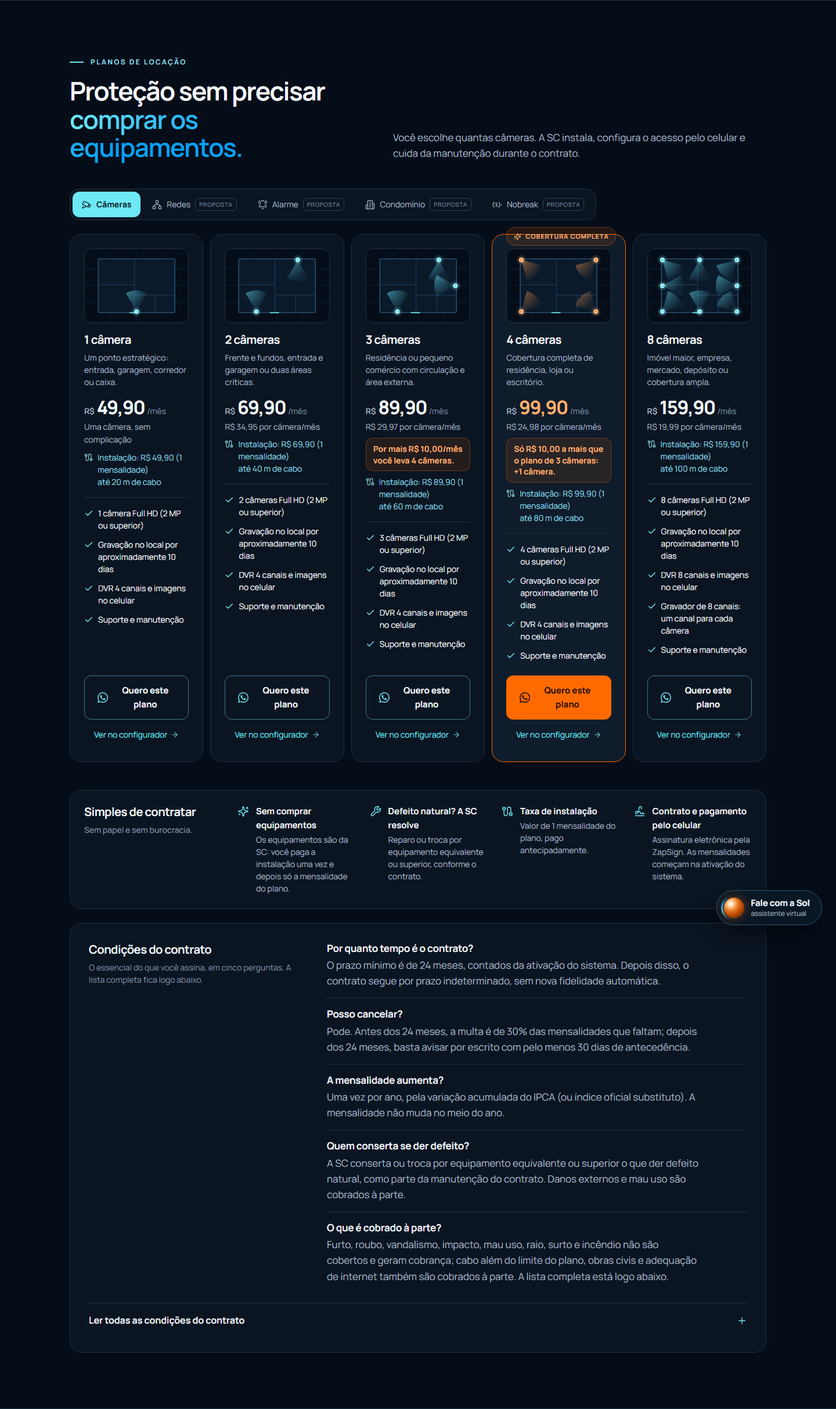
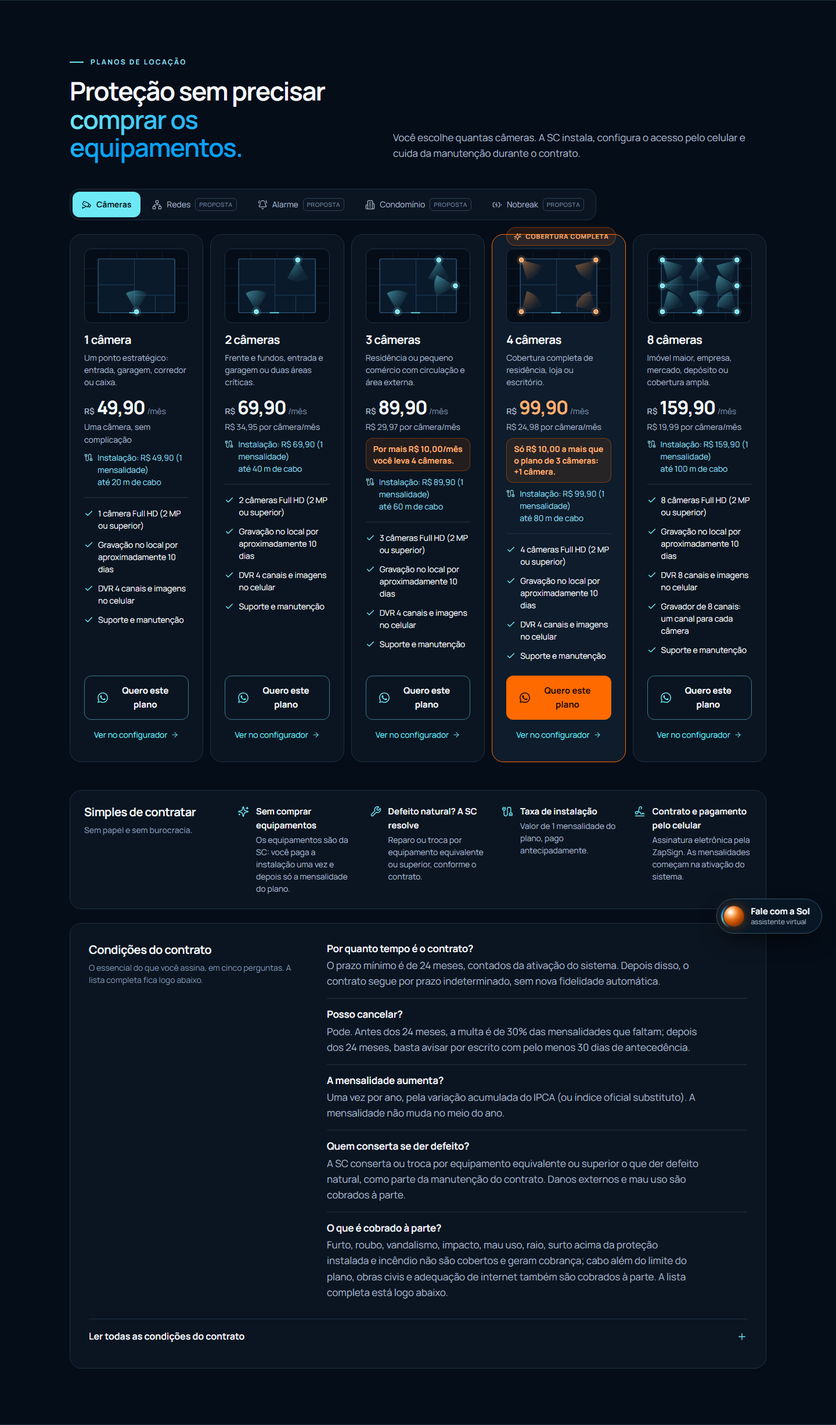
Correções da revisão: textos, foco e toque da ferramenta, conferências mais rígidas
- /comercio/ e condomínio não sugerem Wi-Fi, alarme ou nobreak incluídos no plano;
  "surto acima da proteção instalada" no resumo do contrato.
- Ferramenta: só números sobre a foto abaixo de 1100 px, foco em duas camadas,
  laterais da casa no lugar certo, estado só no aria-pressed, seção nomeada pelo título.
- Foto da loja com telefone e número do prédio desfocados.
- Validador: nada pode passar da borda a 375 px, nenhum pedido a outro domínio antes
  do clique no vídeo, ícone do WhatsApp no botão da ferramenta.
- Privacidade cita os links do Maps e do YouTube.

diff --git a/site/src/lib/dados.ts b/site/src/lib/dados.ts
@@ -178,7 +178,7 @@ export const contratoSimples: Duvida[] = [
   },
   {
     pergunta: 'O que é cobrado à parte?',
-    resposta: 'Furto, roubo, vandalismo, impacto, mau uso, raio, surto e incêndio não são cobertos e geram cobrança; cabo além do limite do plano, obras civis e adequação de internet também são cobrados à parte. A lista completa está logo abaixo.',
+    resposta: 'Furto, roubo, vandalismo, impacto, mau uso, raio, surto acima da proteção instalada e incêndio não são cobertos e geram cobrança; cabo além do limite do plano, obras civis e adequação de internet também são cobrados à parte. A lista completa está logo abaixo.',
   },
 ];
 
@@ -350,7 +350,7 @@ export const paginaCondominio = {
     },
     {
       titulo: 'Rede, Wi-Fi e nobreak',
-      texto: 'Câmeras, acesso e interfonia ligados ao quadro técnico, e Wi-Fi nas áreas comuns. O nobreak é dimensionado para a carga e mantém o sistema por um período na falta de energia, conforme a bateria.',
+      texto: 'Câmeras, acesso e interfonia ligados ao quadro técnico, e Wi-Fi nas áreas comuns. O nobreak é dimensionado para a carga e mantém o sistema por um período na falta de energia, conforme a bateria. Nobreak é adicional, incluído só se estiver na proposta.',
     },
     {
       titulo: 'Alarme integrado às câmeras, no celular',
@@ -382,8 +382,8 @@ export const paginasAmbiente = {
     curto: 'Comércio',
     tituloBusca: 'Câmeras de segurança para comércio',
     titulo: 'Caixa, estoque e entrada à vista, de onde você estiver.',
-    lead: 'Planos de locação de câmeras para a sua loja, com gravação local, imagens no celular, rede Wi-Fi e alarme.',
-    descricao: 'Câmeras para loja: caixa, salão, estoque e entrada. Planos de locação de câmeras da SC Soluções, rede Wi-Fi e alarme. Francisco Beltrão e região.',
+    lead: 'Planos de locação de câmeras para a sua loja, com gravação local e imagens no celular. Rede Wi-Fi e alarme em proposta personalizada.',
+    descricao: 'Câmeras para loja: caixa, salão, estoque e entrada. Locação da SC Soluções com gravação local e imagens no celular. Wi-Fi e alarme em proposta personalizada. Francisco Beltrão.',
     destaques: ['Planos de 1 a 8 câmeras', 'Gravação local', 'Rede Wi-Fi sob medida', 'Alarme monitorado pelo app'],
     blocos: [
       { titulo: 'Câmeras onde importa', texto: textoCameras('Fachada, caixa, salão, estoque e carga e descarga') },

diff --git a/site/src/styles/toque-camera.css b/site/src/styles/toque-camera.css
@@ -17,14 +17,15 @@
 }
 .toque-foto .toque-ponto {
   position: absolute;
-  left: clamp(22px, calc(var(--x) * 1%), calc(100% - 22px));
-  top: clamp(22px, calc(var(--y) * 1%), calc(100% - 22px));
+  left: clamp(28px, calc(var(--x) * 1%), calc(100% - 28px));
+  top: clamp(28px, calc(var(--y) * 1%), calc(100% - 28px));
   transform: translate(-22px, -50%);
 }
 .toque-foto .toque-ponto[data-lado='esquerda'] { flex-direction: row-reverse; transform: translate(calc(-100% + 22px), -50%); }
 .toque-ponto:disabled { cursor: not-allowed; }
 .toque-ponto:focus-visible { outline: none; }
-.toque-ponto:focus-visible .toque-marca::before { outline: 3px solid var(--ciano); outline-offset: 3px; }
+/* Anel de foco em duas camadas (fundo + ciano): aparece sobre qualquer parte da foto; os pontos ficam a 28 px da borda para não ser cortado */
+.toque-ponto:focus-visible .toque-marca::before { box-shadow: 0 0 0 3px var(--fundo), 0 0 0 6px var(--ciano); }
 .toque-extra:focus-visible { outline: 2px solid var(--ciano); outline-offset: 3px; border-radius: 999px; }
 
 .toque-marca { position: relative; flex: none; display: grid; place-items: center; width: 44px; height: 44px; }
@@ -96,13 +97,16 @@
   .toque-grade { grid-template-columns: 1fr; gap: 20px; }
 }
 
-/* Celular: só o número sobre a foto; os nomes vão para a lista logo abaixo */
-@media (max-width: 760px) {
-  .toque-foto { border-radius: 14px; }
+/* Abaixo de 1100 px: só o número sobre a foto; os nomes vão para a lista logo abaixo (rótulos não cobrem os pontos vizinhos) */
+@media (max-width: 1100px) {
   .toque-foto .toque-rotulo { position: absolute; width: 1px; height: 1px; padding: 0; border: 0; overflow: hidden; clip: rect(0 0 0 0); }
-  .toque-foto .toque-ponto, .toque-foto .toque-ponto[data-lado='esquerda'] { transform: translate(-50%, -50%); left: clamp(22px, calc(var(--x) * 1%), calc(100% - 22px)); }
+  .toque-foto .toque-ponto, .toque-foto .toque-ponto[data-lado='esquerda'] { transform: translate(-50%, -50%); left: clamp(28px, calc(var(--x) * 1%), calc(100% - 28px)); }
   .toque-foto .toque-num { display: inline-grid; }
   .toque-legenda { display: grid; }
+}
+
+@media (max-width: 760px) {
+  .toque-foto { border-radius: 14px; }
   .toque-resultado { padding: 20px; }
 }
 

diff --git a/site/src/lib/toque-camera.ts b/site/src/lib/toque-camera.ts
@@ -11,7 +11,7 @@ export interface PontoCamera {
   id: string;
   /** Rótulo visível, curto. */
   rotulo: string;
-  /** Complemento do rótulo acessível: "Câmera {onde}, marcada". Contém o rótulo visível. */
+  /** Complemento do rótulo acessível: "Câmera {onde}". Contém o rótulo visível. */
   onde: string;
   /**
    * Posição sobre a foto, em % da largura (x) e da altura (y). Sem posição: ponto fora da foto
@@ -42,8 +42,8 @@ export const fachadas: Record<IdFachada, FachadaToque> = {
       { id: 'porta', rotulo: 'Porta da frente', onde: 'na porta da frente', x: 61, y: 62 },
       { id: 'calcada', rotulo: 'Calçada e rua', onde: 'na calçada e rua', x: 22, y: 87 },
       { id: 'jardim', rotulo: 'Jardim da frente', onde: 'no jardim da frente', x: 80, y: 72, lado: 'esquerda' },
-      { id: 'lateral-esquerda', rotulo: 'Lateral esquerda', onde: 'na lateral esquerda', x: 6, y: 58 },
-      { id: 'lateral-direita', rotulo: 'Lateral direita', onde: 'na lateral direita', x: 95, y: 52, lado: 'esquerda' },
+      { id: 'lateral-esquerda', rotulo: 'Lateral esquerda', onde: 'na lateral esquerda', x: 17, y: 50 },
+      { id: 'lateral-direita', rotulo: 'Lateral direita', onde: 'na lateral direita', x: 86, y: 44, lado: 'esquerda' },
       { id: 'fundos', rotulo: 'Fundos e quintal', onde: 'nos fundos e quintal' },
       { id: 'dentro', rotulo: 'Dentro de casa', onde: 'dentro de casa' },
     ],
@@ -68,9 +68,9 @@ export function naFoto(p: PontoCamera): p is PontoCamera & { x: number; y: numbe
   return typeof p.x === 'number' && typeof p.y === 'number';
 }
 
-/** Rótulo acessível do botão do ponto (ex.: "Câmera na garagem, marcada"). */
-export function rotuloAcessivel(p: PontoCamera, marcado: boolean): string {
-  return `Câmera ${p.onde}, ${marcado ? 'marcada' : 'desmarcada'}`;
+/** Rótulo acessível fixo do botão do ponto (ex.: "Câmera na garagem"); o estado fica só no aria-pressed. */
+export function rotuloAcessivel(p: PontoCamera): string {
+  return `Câmera ${p.onde}`;
 }
 
 /** Pontos marcados, na ordem da lista da fachada (ids desconhecidos são ignorados). */

diff --git a/site/tests/toque-camera.test.ts b/site/tests/toque-camera.test.ts
@@ -15,7 +15,7 @@ describe('ferramenta "Toque onde quer câmera": pontos de cada fachada', () => {
       expect(p.rotulo.length).toBeGreaterThan(2);
       expect(p.rotulo.length).toBeLessThanOrEqual(28);
       // O rótulo acessível contém o rótulo visível (WCAG 2.5.3).
-      expect(rotuloAcessivel(p, true).toLowerCase()).toContain(p.rotulo.toLowerCase());
+      expect(rotuloAcessivel(p).toLowerCase()).toContain(p.rotulo.toLowerCase());
     }
     expect(f.alt.length).toBeGreaterThan(20);
   });
@@ -44,10 +44,10 @@ describe('ferramenta "Toque onde quer câmera": pontos de cada fachada', () => {
     expect(fachadas.comercio.pontos.filter(naFoto).map((p) => p.rotulo)).toEqual(['Porta de entrada', 'Vitrine', 'Calçada em frente']);
   });
 
-  it('rótulo acessível diz o lugar e se está marcado', () => {
+  it('rótulo acessível diz o lugar, sem o estado (o estado fica só no aria-pressed)', () => {
     const garagem = fachadas.casa.pontos[0]!;
-    expect(rotuloAcessivel(garagem, true)).toBe('Câmera na garagem, marcada');
-    expect(rotuloAcessivel(garagem, false)).toBe('Câmera na garagem, desmarcada');
+    expect(rotuloAcessivel(garagem)).toBe('Câmera na garagem');
+    expect(rotuloAcessivel(garagem)).not.toMatch(/marcada/);
   });
 
   it('pontos marcados saem na ordem da lista e ids desconhecidos são ignorados', () => {

diff --git a/site/src/scripts/toque-camera.ts b/site/src/scripts/toque-camera.ts
@@ -3,7 +3,7 @@
  * A conta fica em src/lib/toque-camera.ts; aqui só se liga a regra aos botões e ao resultado.
  */
 import { formatarPreco, mostrarPrecos, nomePlano, rotuloTaxa, textoTaxaInstalacao, toqueCamera } from '../lib/dados';
-import { MAX_PONTOS, fachadas, resultadoToque, rotuloAcessivel, type IdFachada } from '../lib/toque-camera';
+import { MAX_PONTOS, fachadas, resultadoToque, type IdFachada } from '../lib/toque-camera';
 
 function iniciar(raiz: HTMLElement): void {
   const fachada = fachadas[raiz.dataset.toque as IdFachada];
@@ -37,7 +37,6 @@ function iniciar(raiz: HTMLElement): void {
       if (!p) continue;
       const marcado = marcados.has(p.id);
       b.setAttribute('aria-pressed', String(marcado));
-      b.setAttribute('aria-label', rotuloAcessivel(p, marcado));
       raiz.querySelector(`[data-legenda="${p.id}"]`)?.toggleAttribute('data-marcado', marcado);
     }
 

diff --git a/docs/inovacao/RELATORIO-VALIDACAO.md b/docs/inovacao/RELATORIO-VALIDACAO.md
@@ -1,6 +1,6 @@
 # Relatório de validação do site
 
-Gerado por `npm run validar` em 12/11/2026, 09:16:47.
+Gerado por `npm run validar` em 12/11/2026, 09:31:50.
 Resultado: **201 de 201 itens ✅** — checklist completa.
 
 ## Geral
@@ -60,8 +60,8 @@ Resultado: **201 de 201 itens ✅** — checklist completa.
 | ✅ | Inicial enxuta: sem "E se…?", faixa de serviços, configurador, "Personalize" e Área do cliente; botão leva a /monte-seu-sistema/ | {"ese":false,"faixa":false,"monte":false,"cliente":false,"personalize":false,"botaoMonte":"/monte-seu-sistema/"} |
 | ✅ | "A partir de R$ 49,90/mês" visível sem rolar em 1440 px | fim do bloco em 760 de 900 px |
 | ✅ | "A partir de R$ 49,90/mês" visível sem rolar em 390 px | fim do bloco em 493 de 768 px |
-| ✅ | Abertura: carregar e rolar a inicial não faz pedido a youtube.com, youtube-nocookie.com, ytimg.com, googlevideo.com, google.com nem gstatic.com (1440 px) | 0 pedido(s) a outros servidores |
-| ✅ | Abertura: carregar e rolar a inicial não faz pedido a youtube.com, youtube-nocookie.com, ytimg.com, googlevideo.com, google.com nem gstatic.com (390 px) | 0 pedido(s) a outros servidores |
+| ✅ | Abertura: carregar e rolar a inicial não faz pedido a nenhum host diferente do próprio site, nem ao Google nem ao YouTube (1440 px) | 0 pedidos a outros hosts |
+| ✅ | Abertura: carregar e rolar a inicial não faz pedido a nenhum host diferente do próprio site, nem ao Google nem ao YouTube (390 px) | 0 pedidos a outros hosts |
 | ✅ | Abertura: tocar no play troca a cena por um iframe de www.youtube-nocookie.com/embed/wKUPPBYbi-Q (com título, autoplay e carregamento tardio), sem abrir outra aba | {"pedidosAntes":0,"pedidosDepois":["https://www.youtube-nocookie.com/embed/wKUPPBYbi-Q?autoplay=1&rel=0&pl"],"player":{"src":"https://www.youtube-nocookie.com/embed/wKUPPBYbi-Q?autoplay=1&rel=0&playsinline=1","title":"Vídeo de demonstração do fabricante: câmeras ColorVu com imagem colorida à noite","allow":"autoplay; encrypted-media; picture-in-picture","loading":"lazy","dentroDoCelular":true,"capaSumiu":true,"legenda":true,"total":1},"abas":1,"erros":[]} |
 | ✅ | Abertura sem JavaScript: o play é um link para https://www.youtube.com/watch?v=wKUPPBYbi-Q em nova aba (noopener), sem iframe e sem pedido ao Google | {"href":"https://www.youtube.com/watch?v=wKUPPBYbi-Q","alvo":"_blank","rel":"noopener","iframes":0,"texto":"Toque para ver o vídeo de demonstração do fabricante","externos":0} |
 | ✅ | Abertura: a legenda do vídeo aparece logo abaixo do celular e contém "sob orçamento" (1440 px) | 16 px abaixo do celular; "Demonstração do fabricante (Hikvision ColorVu). Imagem colorida à noit…" |
@@ -103,7 +103,7 @@ Resultado: **201 de 201 itens ✅** — checklist completa.
 | ✅ | Mensagem para a Sol leva ambiente, quantidade, pontos, plano, valor e recursos | Olá! Montei meu sistema no site da SC. / Ambiente: Casa / Câmeras: 8 (entrada principal, garagem e portão, fundos / quintal, lateral esquerda, fundos / quintal  |
 | ✅ | Condomínio vai para proposta personalizada |  |
 | ✅ | ?ambiente=condominio abre o configurador no condomínio (link da aba Condomínio) | true |
-| ✅ | Link antigo /#monte leva a /monte-seu-sistema/ | http://127.0.0.1:56208/monte-seu-sistema/ |
+| ✅ | Link antigo /#monte leva a /monte-seu-sistema/ | http://127.0.0.1:61810/monte-seu-sistema/ |
 
 ## Tela 4 · Como funciona
 
@@ -169,7 +169,7 @@ Resultado: **201 de 201 itens ✅** — checklist completa.
 | ✅ | Comércio: "reduzir movimento": nenhuma animação contínua roda | 0 animações contínuas |
 | ✅ | Comércio: nada fala de maquete, 3D nem "instalação inclusa"; menu "Soluções" leva às quatro páginas |  |
 | ✅ | Comércio: dados estruturados (schema.org) da página e título com a cidade | 1 bloco(s); Câmeras de segurança para comércio / SC Soluções, Francisco Beltrão |
-| ✅ | Comércio: página leve (peso total ≤ 300 KB, sem compactação) | 237 KB em 11 arquivos |
+| ✅ | Comércio: página leve (peso total ≤ 300 KB, sem compactação) | 235 KB em 11 arquivos |
 | ✅ | Comércio: planos de 1 a 8 câmeras, gravação de aproximadamente 10 dias, imagens no celular dependem de energia e internet, premium sob orçamento |  |
 | ✅ | Comércio: botões levam aos planos (/#planos) e ao configurador (?ambiente=comercio) | {"planos":"Ver os planos de locação","config":"Montar no configurador","whats":0} |
 | ✅ | Comércio no celular: sem rolagem lateral, toques ≥ 44 px, item "Contato" no menu e sem erros | {"sobra":0,"pequenos":[],"contatoNoMenu":true,"erros":[]} |
@@ -192,7 +192,7 @@ Resultado: **201 de 201 itens ✅** — checklist completa.
 | ✅ | Condomínio: página leve (peso total ≤ 300 KB, sem compactação) | 161 KB em 8 arquivos |
 | ✅ | Condomínio: sem preço, dias de gravação, quantidade de câmeras, prazo de contrato nem "instalação inclusa" |  |
 | ✅ | Condomínio: o botão de proposta tem o orbe da Sol, leva a #contato sem JavaScript e abre o chat da Sol | {"href":"#contato","msg":"Quero uma proposta do Condomínio Evoluído para o meu condomínio.","orbe":true,"whats":false,"config":true} |
-| ✅ | Condomínio: "Pedir proposta" abre a Sol e a página não sai do lugar | http://127.0.0.1:56208/condominio/ |
+| ✅ | Condomínio: "Pedir proposta" abre a Sol e a página não sai do lugar | http://127.0.0.1:61810/condominio/ |
 | ✅ | Condomínio no celular: sem rolagem lateral, toques ≥ 44 px, item "Contato" no menu e sem erros | {"sobra":0,"pequenos":[],"contatoNoMenu":true,"erros":[]} |
 | ✅ | Condomínio sem JavaScript: texto, blocos, contato e botões funcionam | {"h1":1,"blocos":4,"contato":true,"botoes":"#contato /monte-seu-sistema/?ambiente=condominio"} |
 | ✅ | Inicial leva às páginas de solução: aba "Condomínio" dos planos, menu "Soluções" e rodapé; o configurador também (sem falar em 3D) | {"planos":"Conhecer o Condomínio Evoluído","menu":true,"rodape":true,"configurador":"Conhecer o Condomínio Evoluído"} |
@@ -202,25 +202,25 @@ Resultado: **201 de 201 itens ✅** — checklist completa.
 
 | | Item | Detalhe |
 |---|---|---|
-| ✅ | Casa: ferramenta começa com o convite, nenhum ponto marcado, pontos ativos e sem link de WhatsApp fora de "Fale com a SC" | {"pontos":8,"pressionados":0,"semAriaPressed":0,"rotulosMarcados":0,"desabilitados":0,"rotulos":["Garagem","Porta da frente","Calçada e rua","Jardim da frente","Lateral esquerda","Lateral direita","Fundos e quintal","Dentro de casa"],"ariaLive":"polite","qtd":"0 câmeras marcadas","conviteVisivel":true,"planoVisivel":false,"nome":"","preco":"","avisoVisivel":false,"aviso":"","ctaVisivel":false,"ctaTexto":"Quero este plano","ctaHref":null,"ctaClasse":true,"whatsForaDoContato":0} |
+| ✅ | Casa: ferramenta começa com o convite, nenhum ponto marcado, pontos ativos e sem link de WhatsApp fora de "Fale com a SC" | {"pontos":8,"pressionados":0,"semAriaPressed":0,"rotulosMarcados":0,"desabilitados":0,"rotulos":["Garagem","Porta da frente","Calçada e rua","Jardim da frente","Lateral esquerda","Lateral direita","Fundos e quintal","Dentro de casa"],"ariaLive":"polite","qtd":"0 câmeras marcadas","conviteVisivel":true,"planoVisivel":false,"nome":"","preco":"","avisoVisivel":false,"aviso":"","ctaVisivel":false,"ctaTexto":"Quero este plano","ctaHref":null,"ctaClasse":true,"ctaIcone":true,"rotulosFixos":true,"whatsForaDoContato":0} |
 | ✅ | Casa: 3 pontos marcados mostram o Plano de 3 câmeras com o preço de dados.ts (R$ 89,90) e a contagem "3 câmeras marcadas" | {"nome":"Plano de 3 câmeras","preco":"R$ 89,90","qtd":"3 câmeras marcadas","aviso":false} |
 | ✅ | Casa: "Quero este plano" abre wa.me/5546991331306 com "Plano de 3 câmeras" e os pontos marcados, sem "instalação inclusa" | {"href":"https://wa.me/5546991331306?text=Ol%C3%A1!%20Vim%20pelo%20si","msg":"Olá! Vim pelo site e quero contratar o Plano de 3 câmeras (R$ 89,90/mês). Pontos: Garagem, Porta da frente, Calçada e rua. Como agendamos a instalação?","marcados3":["Garagem","Porta da frente","Calçada e rua"],"whatsFora":1} |
-| ✅ | Casa: aria-pressed dos pontos acompanha a marcação (3 "true", rótulo "marcada") e o resultado é aria-live | {"pressionados":3,"rotulosMarcados":3,"ariaLive":"polite"} |
+| ✅ | Casa: aria-pressed dos pontos acompanha a marcação (3 "true", rótulo fixo sem repetir o estado) e o resultado é aria-live | {"pressionados":3,"rotulosMarcados":3,"ariaLive":"polite"} |
 | ✅ | Casa: 6 pontos marcados mostram o Plano de 8 câmeras com o aviso de folga | {"nome":"Plano de 8 câmeras","preco":"R$ 159,90","aviso":"Você marcou 6 pontos. O plano de 8 câmeras cobre com folga e sobra canal no gravador; para exatamente 6 câmeras, a SC faz uma proposta personalizada.","qtd":"6 câmeras marcadas"} |
-| ✅ | Casa: desmarcar tudo devolve o convite inicial, sem plano nem botão de WhatsApp | {"pontos":8,"pressionados":0,"semAriaPressed":0,"rotulosMarcados":0,"desabilitados":0,"rotulos":["Garagem","Porta da frente","Calçada e rua","Jardim da frente","Lateral esquerda","Lateral direita","Fundos e quintal","Dentro de casa"],"ariaLive":"polite","qtd":"0 câmeras marcadas","conviteVisivel":true,"planoVisivel":false,"nome":"Plano de 1 câmera","preco":"R$ 49,90","avisoVisivel":false,"aviso":"","ctaVisivel":false,"ctaTexto":"Quero este plano (Plano de 1 câmera, abre o WhatsApp da equipe)","ctaHref":null,"ctaClasse":true,"whatsForaDoContato":0} |
+| ✅ | Casa: desmarcar tudo devolve o convite inicial, sem plano nem botão de WhatsApp | {"pontos":8,"pressionados":0,"semAriaPressed":0,"rotulosMarcados":0,"desabilitados":0,"rotulos":["Garagem","Porta da frente","Calçada e rua","Jardim da frente","Lateral esquerda","Lateral direita","Fundos e quintal","Dentro de casa"],"ariaLive":"polite","qtd":"0 câmeras marcadas","conviteVisivel":true,"planoVisivel":false,"nome":"Plano de 1 câmera","preco":"R$ 49,90","avisoVisivel":false,"aviso":"","ctaVisivel":false,"ctaTexto":"Quero este plano (Plano de 1 câmera, abre o WhatsApp da equipe)","ctaHref":null,"ctaClasse":true,"ctaIcone":true,"rotulosFixos":true,"whatsForaDoContato":0} |
 | ✅ | Casa: nenhuma imagem vem de domínio diferente do site e a página tem zero erros no console | {"pedidosFora":[],"imgFora":[],"imagens":3,"erros":[]} |
 | ✅ | Casa sem JavaScript: pontos desativados, resultado escondido e link para /#planos | {"pontos":8,"desabilitados":8,"avisoVisivel":true,"linkPlanos":true,"resultadoOculto":true,"whatsFora":0} |
-| ✅ | Casa em 375 px com a ferramenta usada: scrollWidth ≤ 375 | {"largura":375,"sobra":0,"erros":[]} |
+| ✅ | Casa em 375 px com a ferramenta usada: scrollWidth ≤ 375 e nenhum elemento visível passa da borda | {"largura":375,"sobra":0,"alem":[],"erros":[]} |
 | ✅ | Casa: nenhuma violação de acessibilidade na seção da ferramenta (computador e celular) |  |
-| ✅ | Comércio: ferramenta começa com o convite, nenhum ponto marcado, pontos ativos e sem link de WhatsApp fora de "Fale com a SC" | {"pontos":7,"pressionados":0,"semAriaPressed":0,"rotulosMarcados":0,"desabilitados":0,"rotulos":["Porta de entrada","Vitrine","Calçada em frente","Caixa","Salão","Estoque","Fundos ou carga e descarga"],"ariaLive":"polite","qtd":"0 câmeras marcadas","conviteVisivel":true,"planoVisivel":false,"nome":"","preco":"","avisoVisivel":false,"aviso":"","ctaVisivel":false,"ctaTexto":"Quero este plano","ctaHref":null,"ctaClasse":true,"whatsForaDoContato":0} |
+| ✅ | Comércio: ferramenta começa com o convite, nenhum ponto marcado, pontos ativos e sem link de WhatsApp fora de "Fale com a SC" | {"pontos":7,"pressionados":0,"semAriaPressed":0,"rotulosMarcados":0,"desabilitados":0,"rotulos":["Porta de entrada","Vitrine","Calçada em frente","Caixa","Salão","Estoque","Fundos ou carga e descarga"],"ariaLive":"polite","qtd":"0 câmeras marcadas","conviteVisivel":true,"planoVisivel":false,"nome":"","preco":"","avisoVisivel":false,"aviso":"","ctaVisivel":false,"ctaTexto":"Quero este plano","ctaHref":null,"ctaClasse":true,"ctaIcone":true,"rotulosFixos":true,"whatsForaDoContato":0} |
 | ✅ | Comércio: 3 pontos marcados mostram o Plano de 3 câmeras com o preço de dados.ts (R$ 89,90) e a contagem "3 câmeras marcadas" | {"nome":"Plano de 3 câmeras","preco":"R$ 89,90","qtd":"3 câmeras marcadas","aviso":false} |
 | ✅ | Comércio: "Quero este plano" abre wa.me/5546991331306 com "Plano de 3 câmeras" e os pontos marcados, sem "instalação inclusa" | {"href":"https://wa.me/5546991331306?text=Ol%C3%A1!%20Vim%20pelo%20si","msg":"Olá! Vim pelo site e quero contratar o Plano de 3 câmeras (R$ 89,90/mês). Pontos: Porta de entrada, Vitrine, Calçada em frente. Como agendamos a instalação?","marcados3":["Porta de entrada","Vitrine","Calçada em frente"],"whatsFora":1} |
-| ✅ | Comércio: aria-pressed dos pontos acompanha a marcação (3 "true", rótulo "marcada") e o resultado é aria-live | {"pressionados":3,"rotulosMarcados":3,"ariaLive":"polite"} |
+| ✅ | Comércio: aria-pressed dos pontos acompanha a marcação (3 "true", rótulo fixo sem repetir o estado) e o resultado é aria-live | {"pressionados":3,"rotulosMarcados":3,"ariaLive":"polite"} |
 | ✅ | Comércio: 6 pontos marcados mostram o Plano de 8 câmeras com o aviso de folga | {"nome":"Plano de 8 câmeras","preco":"R$ 159,90","aviso":"Você marcou 6 pontos. O plano de 8 câmeras cobre com folga e sobra canal no gravador; para exatamente 6 câmeras, a SC faz uma proposta personalizada.","qtd":"6 câmeras marcadas"} |
-| ✅ | Comércio: desmarcar tudo devolve o convite inicial, sem plano nem botão de WhatsApp | {"pontos":7,"pressionados":0,"semAriaPressed":0,"rotulosMarcados":0,"desabilitados":0,"rotulos":["Porta de entrada","Vitrine","Calçada em frente","Caixa","Salão","Estoque","Fundos ou carga e descarga"],"ariaLive":"polite","qtd":"0 câmeras marcadas","conviteVisivel":true,"planoVisivel":false,"nome":"Plano de 1 câmera","preco":"R$ 49,90","avisoVisivel":false,"aviso":"","ctaVisivel":false,"ctaTexto":"Quero este plano (Plano de 1 câmera, abre o WhatsApp da equipe)","ctaHref":null,"ctaClasse":true,"whatsForaDoContato":0} |
+| ✅ | Comércio: desmarcar tudo devolve o convite inicial, sem plano nem botão de WhatsApp | {"pontos":7,"pressionados":0,"semAriaPressed":0,"rotulosMarcados":0,"desabilitados":0,"rotulos":["Porta de entrada","Vitrine","Calçada em frente","Caixa","Salão","Estoque","Fundos ou carga e descarga"],"ariaLive":"polite","qtd":"0 câmeras marcadas","conviteVisivel":true,"planoVisivel":false,"nome":"Plano de 1 câmera","preco":"R$ 49,90","avisoVisivel":false,"aviso":"","ctaVisivel":false,"ctaTexto":"Quero este plano (Plano de 1 câmera, abre o WhatsApp da equipe)","ctaHref":null,"ctaClasse":true,"ctaIcone":true,"rotulosFixos":true,"whatsForaDoContato":0} |
 | ✅ | Comércio: nenhuma imagem vem de domínio diferente do site e a página tem zero erros no console | {"pedidosFora":[],"imgFora":[],"imagens":3,"erros":[]} |
 | ✅ | Comércio sem JavaScript: pontos desativados, resultado escondido e link para /#planos | {"pontos":7,"desabilitados":7,"avisoVisivel":true,"linkPlanos":true,"resultadoOculto":true,"whatsFora":0} |
-| ✅ | Comércio em 375 px com a ferramenta usada: scrollWidth ≤ 375 | {"largura":375,"sobra":0,"erros":[]} |
+| ✅ | Comércio em 375 px com a ferramenta usada: scrollWidth ≤ 375 e nenhum elemento visível passa da borda | {"largura":375,"sobra":0,"alem":[],"erros":[]} |
 | ✅ | Comércio: nenhuma violação de acessibilidade na seção da ferramenta (computador e celular) |  |
 
 ## Layout em 375 px
@@ -264,7 +264,7 @@ Resultado: **201 de 201 itens ✅** — checklist completa.
 | ✅ | Calculadoras: energia com os valores iniciais dá 70 W, fonte de 10 A e bateria de 65 Ah | Potência total70 WCorrente a 12 V5,83 A (7 A com folga)Fonte indicada10 ABateria para 4 h54,9 Ah necessários → 65 Ah |
 | ✅ | Calculadoras: rede com os valores iniciais dá 57,6 Mbps e enlace de 100 Mbps | Câmeras somadas48 MbpsCom a folga de protocolo57,6 MbpsEnlace até o gravador100 Mbps (usa até 70 %)Upload para ver de fora1,2 Mbps |
 | ✅ | Calculadoras: manifesto, rodapé, orbe da Sol, um h1, WhatsApp só em "Fale com a SC" e fora do menu do topo | {"manifesto":"/calculadoras/manifest.webmanifest","whatsFora":0,"h1":1,"orbe":true,"rodape":true,"menuTopo":false} |
-| ✅ | Calculadoras: service worker só em /calculadoras/ e a página abre e calcula sem internet | http://127.0.0.1:56208/calculadoras/; Calculadoras para instalação de câmeras / SC Soluções, Francisco Beltrão |
+| ✅ | Calculadoras: service worker só em /calculadoras/ e a página abre e calcula sem internet | http://127.0.0.1:61810/calculadoras/; Calculadoras para instalação de câmeras / SC Soluções, Francisco Beltrão |
 | ✅ | Calculadoras: o service worker é versionado, limpa caches velhos e usa rede primeiro para a página |  |
 | ✅ | Calculadoras: zero erros no console |  |
 | ✅ | Calculadoras no celular: sem rolagem lateral e campos/botões ≥ 44 px | sobra 0; pequenos 0 |
